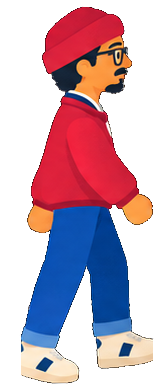
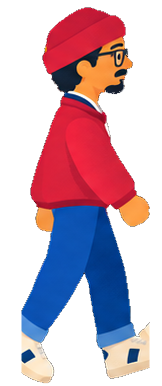
Walk cycle: 12 frames, travel across scene, speed/blend/size controls
Drops the most redundant frame, adds a Walk section in Rig Lab (walking
on/off, travel or in place, speed, smooth blend, size), keeps the feet on
one ground line when resizing, and cleans the dark fringe left by the
keyed background.

Claude-Session: https://claude.ai/code/session_015ihGvpgw6SJdfCAPaeHAJK

diff --git a/public/js/main.js b/public/js/main.js
@@ -677,6 +677,7 @@ function selectCharacter(next, { remember = true } = {}) {
   for (const r of document.querySelectorAll('input[name="charChoice"]')) r.checked = r.value === choice;
   for (const b of document.querySelectorAll('#charSwitch button')) b.classList.toggle('on', b.dataset.char === choice);
   for (const b of document.querySelectorAll('#labChar button')) b.classList.toggle('active', b.dataset.char === choice);
+  if (typeof syncWalkLab === 'function') syncWalkLab();
   $('basicParts').classList.toggle('hidden', choice !== 'basic');
   const p = activePuppet();
   view.id = 'front';
@@ -687,6 +688,19 @@ function selectCharacter(next, { remember = true } = {}) {
   correctives.load(choice === 'custom' && p ? `custom:${p.name}` : choice);
 }
 for (const r of document.querySelectorAll('input[name="charChoice"]')) r.addEventListener('input', () => selectCharacter(r.value));
+const walkLab = $('labWalk');
+function syncWalkLab() {
+  walkLab.classList.toggle('hidden', choice !== 'walk');
+  $('labWalkSpeedOut').textContent = `${walk.speed.toFixed(2)}×`;
+  $('labWalkBlendOut').textContent = `${Math.round(walk.blend * 100)}%`;
+  $('labWalkSizeOut').textContent = `${Math.round($('charScale').value * 100)}%`;
+}
+$('labWalkOn').addEventListener('input', (e) => { walk.on = e.target.checked; });
+$('labWalkTravel').addEventListener('input', (e) => { walk.travel = e.target.checked; });
+$('labWalkSpeed').addEventListener('input', (e) => { walk.speed = Number(e.target.value); syncWalkLab(); });
+$('labWalkBlend').addEventListener('input', (e) => { walk.blend = Number(e.target.value); syncWalkLab(); });
+$('labWalkSize').addEventListener('input', (e) => { $('charScale').value = e.target.value; $('charScale').dispatchEvent(new Event('input', { bubbles: true })); syncWalkLab(); });
+$('charScale').addEventListener('input', () => { $('labWalkSize').value = $('charScale').value; syncWalkLab(); });
 for (const b of document.querySelectorAll('#charSwitch button, #labChar button')) b.addEventListener('click', () => selectCharacter(b.dataset.char));
 
 function showCustom(p) {
@@ -883,7 +897,19 @@ function registerViews(p, def) {
 // ---------- drawing the character ----------
 const thumbRenderer = createRenderer();
 const basicCanvas = document.createElement('canvas');
-const WALK_FRAMES = 13, WALK_W = 162, WALK_H = 386, WALK_FPS = 13;
+const WALK_FRAMES = 12, WALK_W = 162, WALK_H = 386, WALK_FPS = 12;
+const WALK_STAND = 7;      // the frame with the legs closest together, shown when walking is off
+const WALK_STEP_H = 0.021; // ground covered per frame, in character heights, so the feet don't slide
+const walk = { on: true, travel: true, speed: 1, blend: 0.4, phase: 0, dist: 0, last: 0 };
+// Called once per rendered frame: advances the walk phase and the distance travelled.
+function walkTick(now) {
+  const dt = walk.last ? Math.min((now - walk.last) / 1000, 0.1) : 0;
+  walk.last = now;
+  if (choice !== 'walk' || !walk.on) return;
+  const adv = dt * WALK_FPS * walk.speed;
+  walk.phase = (walk.phase + adv) % WALK_FRAMES;
+  walk.dist += adv * WALK_STEP_H;
+}
 const walkSheet = new Image();
 walkSheet.src = 'characters/walk-sheet.png';
 
@@ -897,16 +923,28 @@ function drawCharacter(target, W, H, r, { mul = 1, alpha = 1, fitH = H, shift = 
     return P;
   }
   if (choice === 'walk') {
-    // Prototype: the 13-frame side-view walk cycle, drawn inside the character's box.
+    // Prototype: the 12-frame side-view walk cycle, drawn inside the character's box.
     const P = rig.solve(W, fitH, scale * 1.2, shift);
     if (walkSheet.complete && walkSheet.naturalWidth) {
-      const b = charBox(P);
-      const h = (b.y1 - b.y0) * 1.02;
+      // The feet stay on the same ground line; the Size slider grows the walker upward from there.
+      const b = charBox(rig.solve(W, fitH, 1.2 * mul, shift));
+      const h = (b.y1 - b.y0) * 1.02 * Number($('charScale').value);
       const w = h * (WALK_W / WALK_H);
-      const i = Math.floor(performance.now() / (1000 / WALK_FPS)) % WALK_FRAMES;
+      let cx = (b.x0 + b.x1) / 2;
+      if (walk.on && walk.travel) cx = -w / 2 + ((walk.dist * h) % (W + w)); // enters left, leaves right, comes round again
+      const at = (i, a) => {
+        target.globalAlpha = a;
+        target.drawImage(walkSheet, i * WALK_W, 0, WALK_W, WALK_H, cx - w / 2, b.y1 - h, w, h);
+      };
       target.save();
-      target.globalAlpha = alpha;
-      target.drawImage(walkSheet, i * WALK_W, 0, WALK_W, WALK_H, (b.x0 + b.x1) / 2 - w / 2, b.y1 - h, w, h);
+      if (!walk.on) at(WALK_STAND, alpha);
+      else {
+        const i = Math.floor(walk.phase) % WALK_FRAMES, f = walk.phase - Math.floor(walk.phase);
+        at(i, alpha);
+        // Fade into the next drawing over the last part of each frame, so slow walks stay smooth.
+        const t = walk.blend > 0 ? Math.max(0, (f - (1 - walk.blend)) / walk.blend) : 0;
+        if (t > 0) at((i + 1) % WALK_FRAMES, alpha * t * t * (3 - 2 * t));
+      }
       target.restore();
     }
     return P;
@@ -1276,6 +1314,7 @@ $('labSecondaryOut').textContent = `${Math.round($('labSecondary').value * 100)}
 let last = performance.now();
 let fps = 60;
 function frame(now) {
+  walkTick(now);
   const dt = (now - last) / 1000;
   fps += (1 / Math.max(dt, 1e-3) - fps) * 0.05;
   last = now;

diff --git a/public/index.html b/public/index.html
@@ -25,7 +25,7 @@
   <div class="char-switch" id="charSwitch" role="group" aria-label="Character">
     <button type="button" data-char="doodle" data-tip="Doodle: hand-built parts, turns with you">Doodle</button>
     <button type="button" data-char="redcap" data-tip="Red beanie: the earlier picture-based character">Red beanie</button>
-    <button type="button" data-char="walk" data-tip="Walk: 13-frame side-view walk cycle (prototype)">Walk</button>
+    <button type="button" data-char="walk" data-tip="Walk: 12-frame side-view walk cycle (prototype)">Walk</button>
   </div>
 
   <!-- ============ Procreate top bar ============ -->
@@ -219,7 +219,7 @@
         <div class="group" id="charList">
           <label class="row">Doodle<small>hand-built parts, turns with you</small><input type="radio" name="charChoice" value="doodle" class="radio"></label>
           <label class="row">Red beanie<small>from your SVG turnaround</small><input type="radio" name="charChoice" value="redcap" class="radio"></label>
-          <label class="row">Walk cycle<small>13 side-view frames, prototype</small><input type="radio" name="charChoice" value="walk" class="radio"></label>
+          <label class="row">Walk cycle<small>12 side-view frames, prototype</small><input type="radio" name="charChoice" value="walk" class="radio"></label>
           <label class="row">Beanie (line art)<input type="radio" name="charChoice" value="beanie" class="radio"></label>
           <label class="row hidden" id="rowCustom"><span id="customName">My drawing</span><input type="radio" name="charChoice" value="custom" class="radio"></label>
           <label class="row">Basic figure<input type="radio" name="charChoice" value="basic" class="radio"></label>
@@ -413,6 +413,15 @@
     <div class="row feel-row"><span>Choose</span>
       <div class="feel-btns" id="labChar"><button data-char="doodle">Doodle</button><button data-char="redcap">Red beanie</button><button data-char="walk">Walk</button></div>
     </div>
+  </section>
+
+  <section class="lab-sec hidden" id="labWalk">
+    <h3>Walk</h3>
+    <label class="row">Walking<small>off = standing still</small><input type="checkbox" class="switch" id="labWalkOn" checked></label>
+    <label class="row">Travel across the scene<small>off = walk in place</small><input type="checkbox" class="switch" id="labWalkTravel" checked></label>
+    <div class="row slider-row"><span>Speed</span><output id="labWalkSpeedOut"></output><input type="range" id="labWalkSpeed" min="0.25" max="2.5" step="0.05" value="1"></div>
+    <div class="row slider-row"><span>Smooth blend</span><output id="labWalkBlendOut"></output><input type="range" id="labWalkBlend" min="0" max="1" step="0.05" value="0.4"></div>
+    <div class="row slider-row"><span>Size</span><output id="labWalkSizeOut"></output><input type="range" id="labWalkSize" min="0.5" max="1.6" step="0.01" value="1"></div>
   </section>
 
   <section class="lab-sec">
